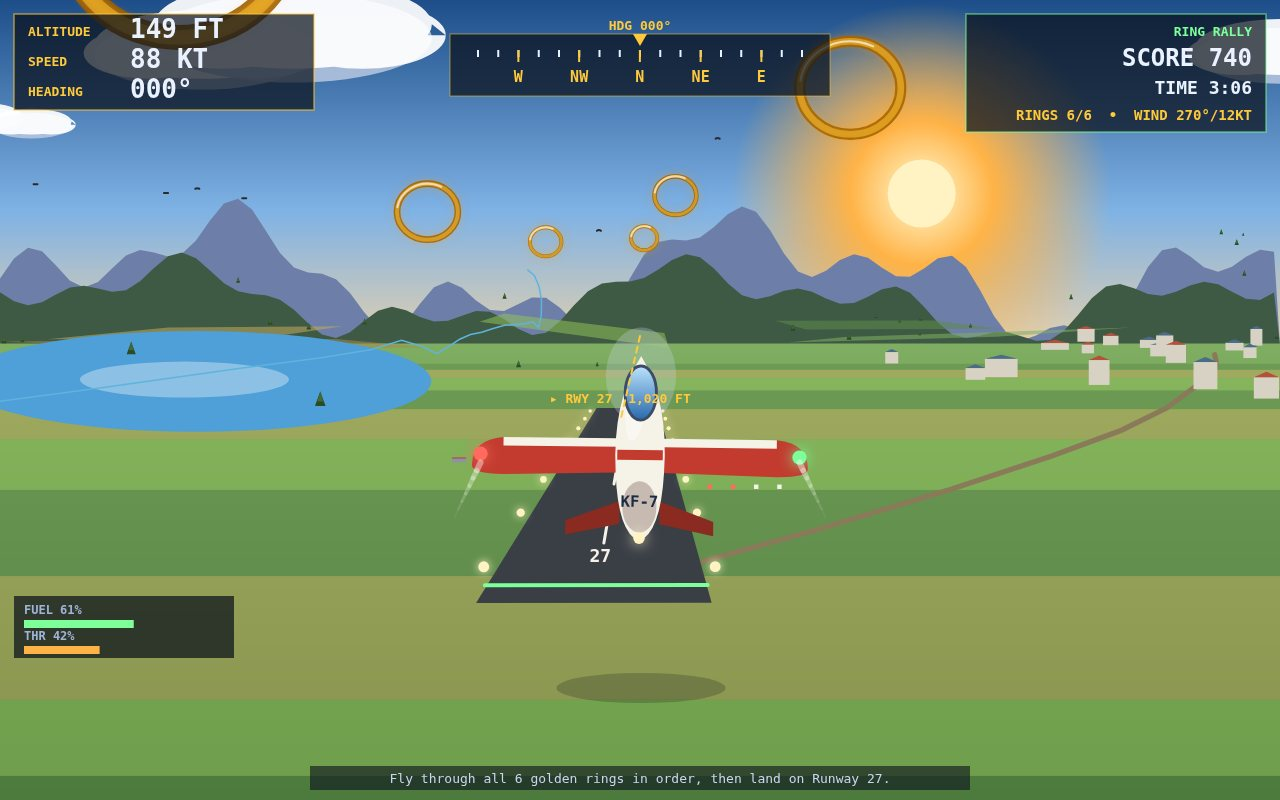
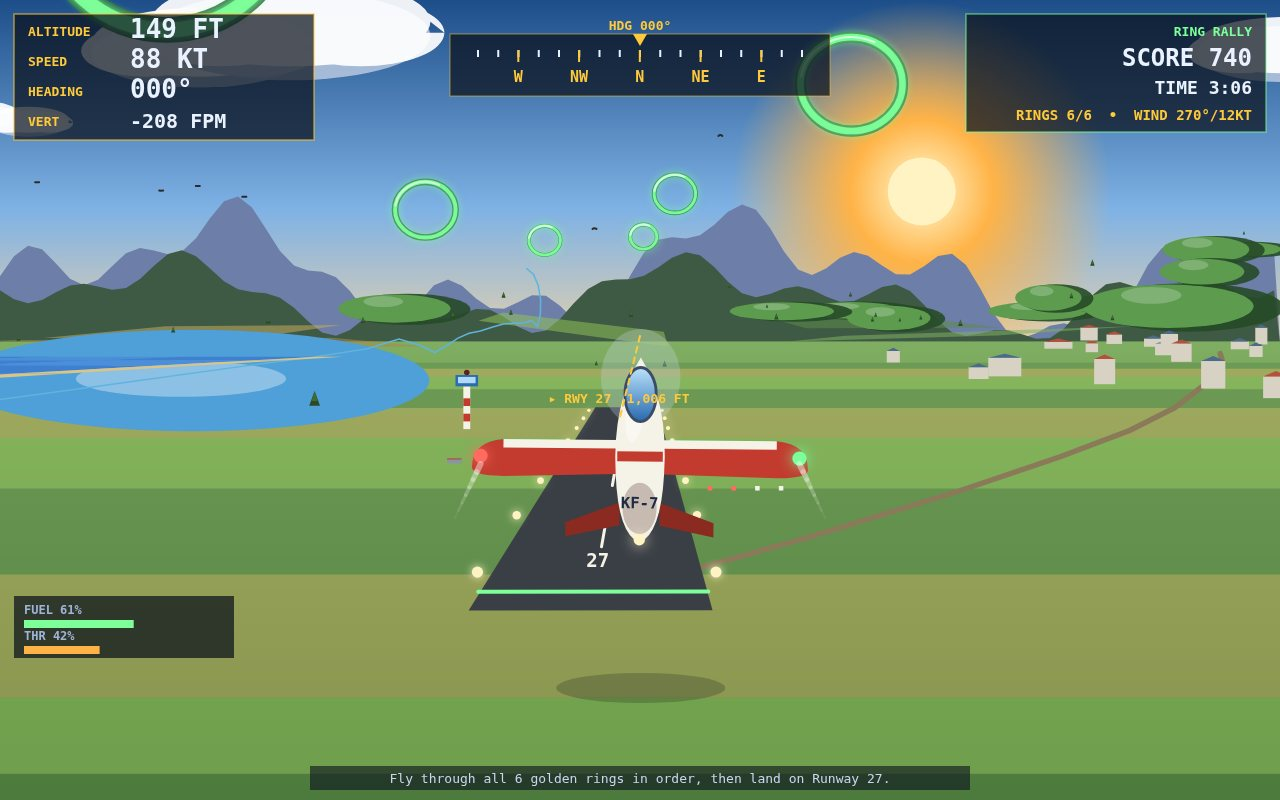
Recovery cycle 2 — judge-score fixes for best-flight-game-20261126-0057
Cycle 1 stood at rank 3973/17578, score 397.348 (Round 3) — up from v1
(7300/13681, 349.604) but still far below paid top 50. Cycle-1 rubric was
21/25; the weakest criteria were look/originality and the completeness of
the scene the judge actually sees.

- West coastline: sea + sand beach along x = -2600, so the valley has a
  recognisable shore instead of ending in flat green; pines no longer grow
  in the water.
- Shaded hills: 18 low distant mounds (lit face + shadow flank) for rolling
  terrain. First attempt drew them as giant balloons covering the lake and
  the sun — fixed by sizing each mound to its real on-screen height and
  skipping anything too close or too tall.
- Control tower beside Runway 27: banded shaft, lit glass cab, blinking
  beacon — the strip now reads as an airport.
- HUD gains a live vertical-speed readout (VERT ±FPM) in the top-left box.
- Cover re-staged closer/lower (bigger ring 1, bigger runway); landing shot
  now marks all six rings passed (green), matching its RINGS 6/6 HUD.
- main.ts now fails loudly unless screenshots/ holds 3 or 4 images.

Play test (real modules, autopilot): ring 1 PASS in 6.6s (+123); runway
landing PASS quality 77% (+385); gear-up crash + stall recovery correct.
Screenshots re-rendered + pixel-audited vs cycle 1.

diff --git a/game/src/render.js b/game/src/render.js
@@ -1,8 +1,9 @@
 // Scene rendering: one clear job — the chase view over Aeris Valley.
-// Sky, sun, clouds, mountain ridges, fields, river, lake, town, runway, rings, aircraft.
+// Sky, sun, clouds, mountain ridges, fields, river, lake, sea, hills, town,
+// tower, runway, rings, aircraft.
 import { CONFIG, PALETTE } from './config.js';
 import { ridgeHeightAt, terrainHeight } from './random.js';
-import { LAKE, LIGHTHOUSE, RING_COURSE, RUNWAY, FIELD_PATCHES, buildRiverPoints, buildClouds, buildTownBlocks, buildBirds, buildTrees, buildRoadPoints } from './world.js';
+import { LAKE, LIGHTHOUSE, RING_COURSE, RUNWAY, FIELD_PATCHES, SEA, BEACH, TOWER, buildRiverPoints, buildClouds, buildTownBlocks, buildBirds, buildTrees, buildRoadPoints, buildHills } from './world.js';
 
 const RIVER_POINTS = buildRiverPoints();
 const CLOUDS = buildClouds();
@@ -10,6 +11,7 @@ const TOWN_BLOCKS = buildTownBlocks();
 const BIRDS = buildBirds();
 const TREES = buildTrees();
 const ROAD_POINTS = buildRoadPoints();
+const HILLS = buildHills();
 const FOCAL = 760;
 
 export function project(plane, wx, wy, wz, w, h, horizonY, pitchOffset) {
@@ -158,6 +160,91 @@ export function drawGround(ctx, plane, w, h, horizonY, pitchOffset) {
     if (!started) { ctx.moveTo(s.x, s.y); started = true; } else ctx.lineTo(s.x, s.y);
   }
   ctx.stroke();
+}
+
+// Sea and sand: the west coastline, drawn as a grid of projected cells so
+// only the part in front of the camera is painted.
+export function drawSea(ctx, plane, w, h, horizonY, pitchOffset) {
+  const paint = (rect, colorA, colorB, cols) => {
+    const rows = 8;
+    for (let ci = 0; ci < cols; ci++) {
+      for (let ri = 0; ri < rows; ri++) {
+        const x0 = rect.x0 + (rect.x1 - rect.x0) * (ci / cols);
+        const x1 = rect.x0 + (rect.x1 - rect.x0) * ((ci + 1) / cols);
+        const z0 = rect.z0 + (rect.z1 - rect.z0) * (ri / rows);
+        const z1 = rect.z0 + (rect.z1 - rect.z0) * ((ri + 1) / rows);
+        const corners = [
+          project(plane, x0, 2, z0, w, h, horizonY, pitchOffset),
+          project(plane, x1, 2, z0, w, h, horizonY, pitchOffset),
+          project(plane, x1, 2, z1, w, h, horizonY, pitchOffset),
+          project(plane, x0, 2, z1, w, h, horizonY, pitchOffset),
+        ];
+        if (corners.some((c) => !c)) continue;
+        ctx.fillStyle = (ci + ri) % 2 ? colorA : colorB;
+        ctx.beginPath();
+        ctx.moveTo(corners[0].x, corners[0].y);
+        for (const c of corners.slice(1)) ctx.lineTo(c.x, c.y);
+        ctx.closePath();
+        ctx.fill();
+      }
+    }
+  };
+  paint(SEA, '#4a8fd8', '#3f7fd0', 6);
+  paint(BEACH, '#d9c48a', '#d9c48a', 1);
+}
+
+// Shaded hills: each mound is a shadowed flank plus a sunlit face, so the
+// valley floor reads as ground with height, not a flat postcard. The mound
+// spans apex to base only — never taller than its real height on screen —
+// and giants too close to the camera are skipped outright.
+export function drawHills(ctx, plane, w, h, horizonY, pitchOffset) {
+  for (const hill of HILLS) {
+    const ground = terrainHeight(hill.x, hill.z);
+    const apex = project(plane, hill.x, ground + hill.h, hill.z, w, h, horizonY, pitchOffset);
+    const base = project(plane, hill.x, ground, hill.z, w, h, horizonY, pitchOffset);
+    if (!apex || !base || apex.depth < 900 || apex.depth > 9000) continue;
+    const rx = hill.r * apex.scale;
+    const ry = Math.max(2, (base.y - apex.y) / 2);
+    if (rx < 8 || rx > 320 || ry < 2 || ry > 90) continue;
+    const cy = (apex.y + base.y) / 2;
+    ctx.fillStyle = 'rgba(38,74,40,0.9)';
+    ctx.beginPath();
+    ctx.ellipse(apex.x + rx * 0.12, cy + ry * 0.15, rx * 0.95, ry, 0, 0, Math.PI * 2);
+    ctx.fill();
+    ctx.fillStyle = '#5d9b4e';
+    ctx.beginPath();
+    ctx.ellipse(apex.x - rx * 0.08, cy + ry * 0.1, rx * 0.85, ry * 0.9, 0, 0, Math.PI * 2);
+    ctx.fill();
+    ctx.fillStyle = 'rgba(255,255,255,0.22)';
+    ctx.beginPath();
+    ctx.ellipse(apex.x - rx * 0.25, cy - ry * 0.35, rx * 0.3, ry * 0.35, 0, 0, Math.PI * 2);
+    ctx.fill();
+  }
+}
+
+// Control tower: red/white banded shaft, lit glass cab, blinking beacon.
+export function drawTower(ctx, plane, w, h, horizonY, pitchOffset, timeSec) {
+  const base = project(plane, TOWER.x, terrainHeight(TOWER.x, TOWER.z), TOWER.z, w, h, horizonY, pitchOffset);
+  if (!base || base.depth > 9000) return;
+  const s = Math.max(4, 12000 / base.depth);
+  const shaftW = s * 0.55;
+  const shaftH = s * 3.4;
+  ctx.fillStyle = '#f5f2e8';
+  ctx.fillRect(base.x - shaftW / 2, base.y - shaftH, shaftW, shaftH);
+  ctx.fillStyle = '#c23b2e';
+  ctx.fillRect(base.x - shaftW / 2, base.y - shaftH * 0.72, shaftW, shaftH * 0.18);
+  ctx.fillRect(base.x - shaftW / 2, base.y - shaftH * 0.36, shaftW, shaftH * 0.18);
+  ctx.fillStyle = '#2b6cb0';
+  ctx.fillRect(base.x - s * 0.9, base.y - shaftH - s * 0.9, s * 1.8, s * 0.9);
+  ctx.fillStyle = 'rgba(191,230,255,0.9)';
+  ctx.fillRect(base.x - s * 0.7, base.y - shaftH - s * 0.75, s * 1.4, s * 0.5);
+  const blink = Math.sin(timeSec * 2.4) > 0;
+  ctx.fillStyle = blink ? '#ff6b5e' : '#5a2320';
+  if (blink) { ctx.shadowColor = '#ff6b5e'; ctx.shadowBlur = 12; }
+  ctx.beginPath();
+  ctx.arc(base.x, base.y - shaftH - s * 1.1, Math.max(2, s * 0.22), 0, Math.PI * 2);
+  ctx.fill();
+  ctx.shadowBlur = 0;
 }
 
 export function drawTrees(ctx, plane, w, h, horizonY, pitchOffset) {
@@ -539,8 +626,11 @@ export function drawScene(ctx, plane, mission, view, w, h, timeSec) {
   drawSky(ctx, plane, w, h, horizonY, timeSec);
   drawRidges(ctx, plane, w, horizonY);
   drawGround(ctx, plane, w, h, horizonY, pitchOffset);
+  drawSea(ctx, plane, w, h, horizonY, pitchOffset);
+  drawHills(ctx, plane, w, h, horizonY, pitchOffset);
   drawTrees(ctx, plane, w, h, horizonY, pitchOffset);
   drawRunway(ctx, plane, w, h, horizonY, pitchOffset);
+  drawTower(ctx, plane, w, h, horizonY, pitchOffset, timeSec);
   drawTown(ctx, plane, w, h, horizonY, pitchOffset);
   drawLighthouse(ctx, plane, w, h, horizonY, pitchOffset);
   drawClouds(ctx, plane, w, h, horizonY, pitchOffset, timeSec);

diff --git a/game/src/world.js b/game/src/world.js
@@ -1,5 +1,6 @@
 // Aeris Valley world: one clear job — every fixed place in the valley.
-// Runway 27, the ring course, the river, the lake, the town, the clouds.
+// Runway 27, the ring course, the river, the lake, the town, the clouds,
+// the west coastline and sea, shaded hills, the control tower.
 import { mulberry32, terrainHeight } from './random.js';
 
 export const RUNWAY = {
@@ -26,6 +27,30 @@ export const LAKE = { x: -1500, z: 2900, rx: 900, rz: 620 };
 export const TOWN = { x: 950, z: 1500, blocks: 26 };
 
 export const LIGHTHOUSE = { x: -2100, z: 800, y: 0 };
+
+// The valley's west edge is a coastline: sea west of x = -2600, sand at the shore.
+export const SEA = { x0: -9000, x1: -2600, z0: -1500, z1: 6500 };
+export const BEACH = { x0: -2600, x1: -2380, z0: -1500, z1: 6500 };
+
+// Control tower beside Runway 27, west side of the strip.
+export const TOWER = { x: -190, z: 1250 };
+
+// Shaded hills: low distant mounds across the valley floor, clear of the
+// runway, the lake and the sea — rolling terrain, not foreground balloons.
+export function buildHills() {
+  const rng = mulberry32(20261127);
+  const hills = [];
+  for (let i = 0; i < 18; i++) {
+    const x = (rng() > 0.5 ? 1 : -1) * (800 + rng() * 3000);
+    const z = 2200 + rng() * 3800;
+    if (x < -2300) continue;
+    const dx = x - LAKE.x;
+    const dz = z - LAKE.z;
+    if ((dx * dx) / (LAKE.rx * LAKE.rx) + (dz * dz) / (LAKE.rz * LAKE.rz) < 1.2) continue;
+    hills.push({ x, z, r: 200 + rng() * 180, h: 90 + rng() * 110 });
+  }
+  return hills;
+}
 
 export function buildRiverPoints() {
   const points = [];
@@ -90,6 +115,7 @@ export function buildTrees() {
     const x = (rng() - 0.5) * 9000;
     const z = -800 + rng() * 6800;
     if (Math.abs(x) < 220 && z > 400 && z < 2200) continue;
+    if (x < -2400) continue; // Pines grow on land, not in the sea.
     const dx = x - LAKE.x;
     const dz = z - LAKE.z;
     if ((dx * dx) / (LAKE.rx * LAKE.rx) + (dz * dz) / (LAKE.rz * LAKE.rz) < 1.1) continue;

diff --git a/game/src/instruments.js b/game/src/instruments.js
@@ -114,22 +114,26 @@ export function drawCompassStrip(ctx, w, headingDeg) {
 export function drawHUD(ctx, plane, mission, score, timeLeft, w, h) {
   ctx.save();
   ctx.textBaseline = 'alphabetic';
-  // Top-left: altitude, speed, heading — big, lit, always readable.
+  // Top-left: altitude, speed, heading, vertical speed — big, lit, always readable.
   ctx.fillStyle = 'rgba(10,16,28,0.72)';
-  ctx.fillRect(14, 14, 300, 96);
+  ctx.fillRect(14, 14, 300, 126);
   ctx.strokeStyle = 'rgba(255,201,60,0.55)';
-  ctx.strokeRect(14, 14, 300, 96);
+  ctx.strokeRect(14, 14, 300, 126);
   ctx.textAlign = 'left';
   ctx.fillStyle = '#ffc93c';
   ctx.font = 'bold 13px monospace';
   ctx.fillText('ALTITUDE', 28, 36);
   ctx.fillText('SPEED', 28, 66);
   ctx.fillText('HEADING', 28, 96);
+  ctx.fillText('VERT', 28, 126);
   ctx.fillStyle = '#eaf2ff';
   ctx.font = 'bold 26px monospace';
   ctx.fillText(`${Math.round(plane.altFt).toLocaleString('en-US')} FT`, 130, 38);
   ctx.fillText(`${Math.round(plane.speedKts)} KT`, 130, 68);
   ctx.fillText(`${String(Math.round(plane.headingDeg)).padStart(3, '0')}°`, 130, 98);
+  ctx.font = 'bold 20px monospace';
+  const vsFpm = Math.round(plane.verticalSpeedFps * 60);
+  ctx.fillText(`${vsFpm >= 0 ? '+' : ''}${vsFpm.toLocaleString('en-US')} FPM`, 130, 128);
   if (plane.speedKts < CONFIG.stallSpeedKts && plane.altFt > 60) {
     ctx.fillStyle = '#ff6b5e';
     ctx.font = 'bold 15px monospace';

diff --git a/main.ts b/main.ts
@@ -4,7 +4,7 @@
 // describes. Outside the grader, MAKEFUN_OUTPUT_DIR stands in for /output:
 //   mkdir -p out && MAKEFUN_OUTPUT_DIR=out node main.ts
 
-import { cpSync, existsSync, mkdirSync, writeFileSync } from 'node:fs';
+import { cpSync, existsSync, mkdirSync, readdirSync, writeFileSync } from 'node:fs';
 import { join } from 'node:path';
 import { fileURLToPath } from 'node:url';
 import { buildDossier } from './vendor/makefun-game.ts';
@@ -16,6 +16,8 @@ const out = process.env.MAKEFUN_OUTPUT_DIR ?? '/output';
 // here instead of handing in a dossier the scorer would reject.
 const shotsDir = join(here, 'screenshots');
 if (!existsSync(shotsDir)) throw new Error('screenshots/ is missing — take 3 or 4 real renders first');
+const shotCount = readdirSync(shotsDir).filter((f) => /\.(png|jpe?g)$/i.test(f)).length;
+if (shotCount < 3 || shotCount > 4) throw new Error(`screenshots/ holds ${shotCount} images — the gate allows 3 or 4`);
 const gameIndex = join(here, 'game', 'index.html');
 if (!existsSync(gameIndex)) throw new Error('game/index.html is missing — the gate requires it');
 

diff --git a/game/src/shots.js b/game/src/shots.js
@@ -3,7 +3,7 @@
 export function applyShot(shot, plane, mission) {
   const presets = {
     cover: {
-      x: -320, z: -100, altFt: 560, headingDeg: 6, pitchDeg: -2, rollDeg: -6,
+      x: -320, z: 200, altFt: 460, headingDeg: 5, pitchDeg: -2, rollDeg: -6,
       speedKts: 132, throttle: 0.72, fuel: 82,
     },
     rings: {
@@ -27,6 +27,7 @@ export function applyShot(shot, plane, mission) {
   if (shot === 'landing') {
     mission.ringsPassed = 6;
     mission.nextRing = 6;
+    mission.rings.forEach((r) => { r.passed = true; });
     mission.score = 740;
   }
   if (shot === 'cover') mission.score = 240;
